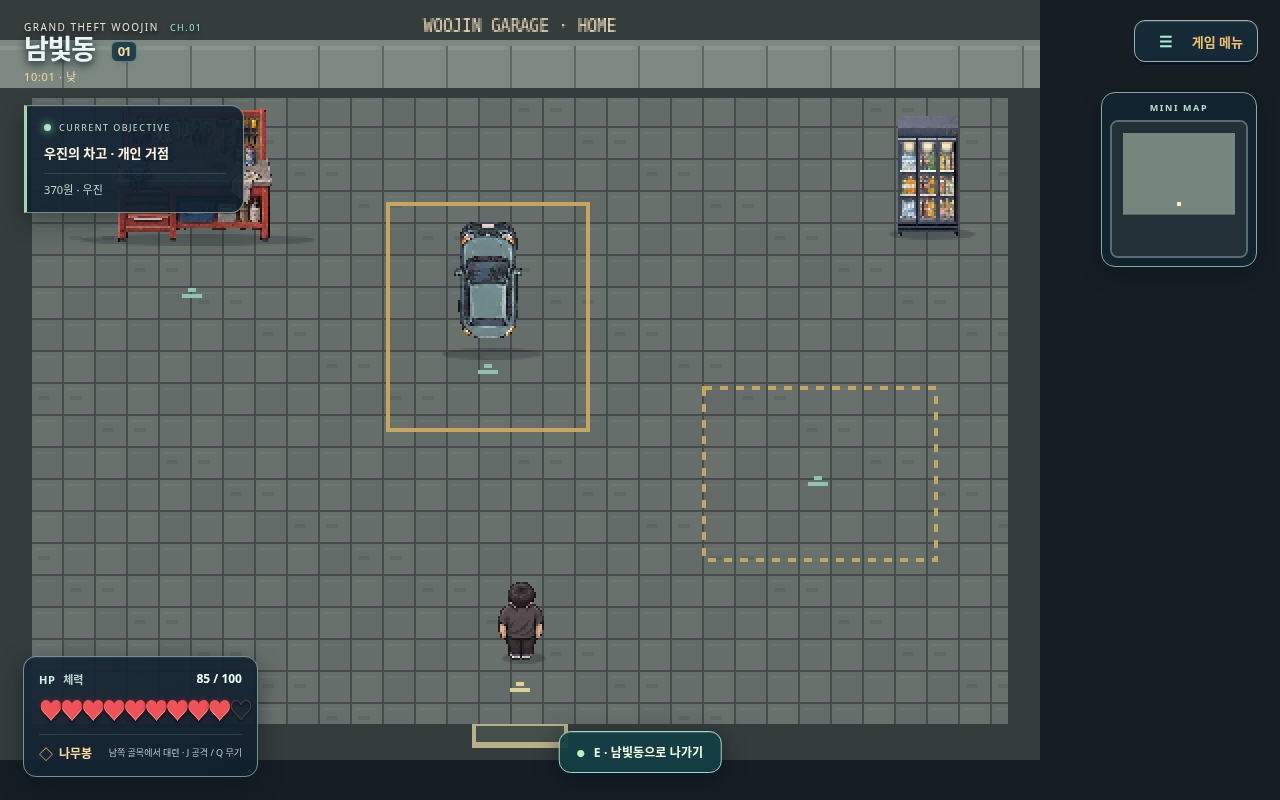
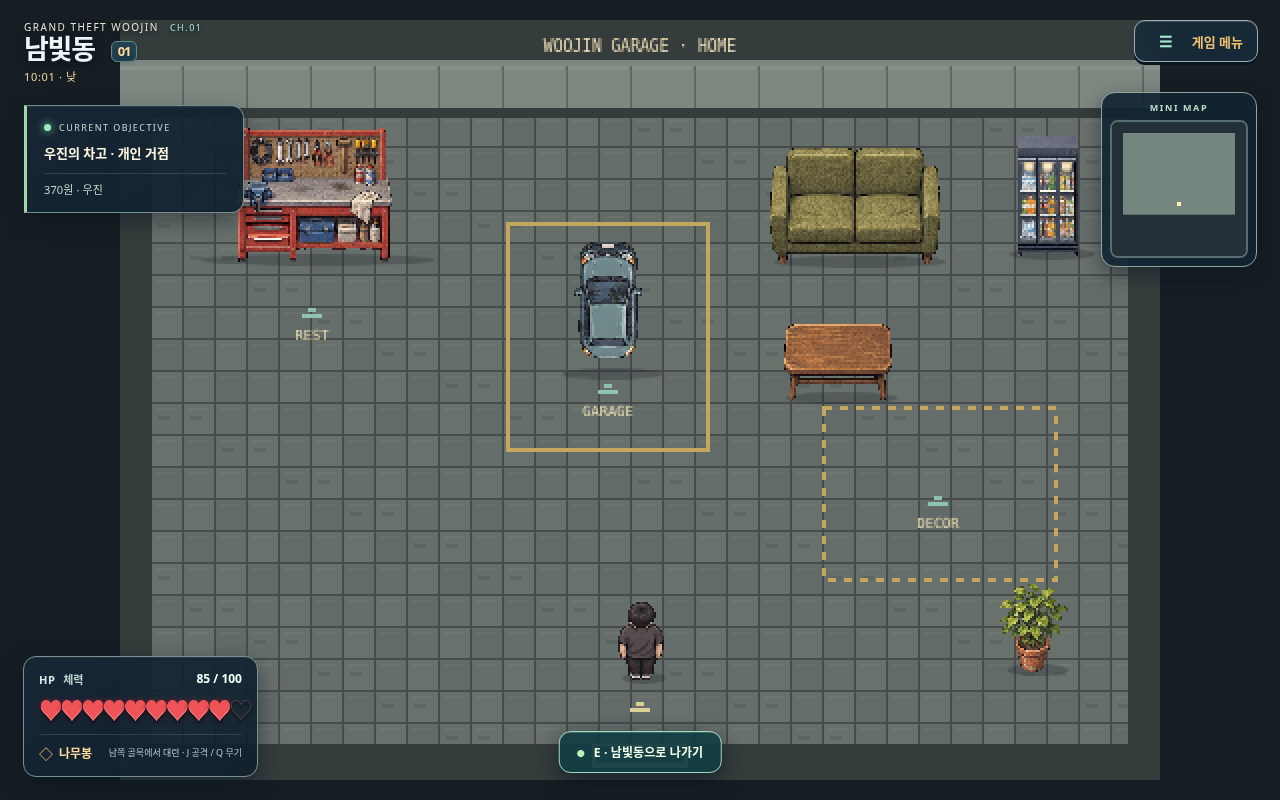
Make garage a persistent personal base with validated furniture placement

diff --git a/dist/city.js b/dist/city.js
@@ -6,6 +6,8 @@ npcs.push(...CityResidents.make());
 let activeResident=null;
 const cityTime=CityTime.create(),rooms=CityInteriors.create();
 let interiorService=false;
+const home=CityHome.create(CityInteriors.rooms.garage);rooms.setFurniture(home.items);
+const homeView=CityHomeView.create({home,rooms,p,S,onChange(){rooms.setFurniture(home.items);save()},onOpen:clearInput,onClose(){clearInput();save()}});
 const activities=CityActivities.create({reward(amount){state.money+=amount;beep()}});
 const clamp=(x,a,b)=>Math.max(a,Math.min(b,x)),distance=(a,b)=>Math.hypot(a.x-b.x,a.y-b.y);
 const enemies=[{id:'taeo',name:'태오',x:300,y:620,dir:2,walk:0,home:{x:300,y:620}}];
@@ -20,9 +22,9 @@ function changeWeapon(){if(!canAttack())return;if(!combat.clubUnlocked){combatVi
 function blocked(x,y,r=8){return rooms.current?rooms.blocked(x,y,r):worldBlocked(x,y,r)}
 function worldBlocked(x,y,r=8){return x<r||y<r||x>SIZE-r||y>SIZE-r||obstacles.some(o=>x+r>o.x&&x-r<o.x+o.w&&y+r>o.y&&y-r<o.y+o.h)}
 function move(o,dx,dy,r){const n=Math.max(1,Math.ceil(Math.hypot(dx,dy)/4));let hit=false;for(let i=0;i<n;i++){if(!blocked(o.x+dx/n,o.y,r))o.x+=dx/n;else hit=true;if(!blocked(o.x,o.y+dy/n,r))o.y+=dy/n;else hit=true}return hit}
-function serial(){return{version:1,p:rooms.current?{...rooms.outside,dir:2}:{x:p.x,y:p.y,dir:p.dir},interior:rooms.save(p),car:{...car,speed:0},mission:state.mission,money:state.money,zoom,sound:$('sound').checked,combat:combat.save(),activities:activities.save(),worldTime:cityTime.save()}}
+function serial(){return{version:1,p:rooms.current?{...rooms.outside,dir:2}:{x:p.x,y:p.y,dir:p.dir},interior:rooms.save(p),home:home.save(),car:{...car,speed:0},mission:state.mission,money:state.money,zoom,sound:$('sound').checked,combat:combat.save(),activities:activities.save(),worldTime:cityTime.save()}}
 function save(){try{const value=JSON.stringify(serial());localStorage.setItem(KEY+'-backup',localStorage.getItem(KEY)||value);localStorage.setItem(KEY,value);$('saveStatus').textContent='저장 완료'}catch{$('saveStatus').textContent='저장 공간을 사용할 수 없어. 이번 진행은 기기에서 보존되지 않을 수 있어.'}}
-function restore(){for(const key of[KEY,KEY+'-backup'])try{const s=JSON.parse(localStorage.getItem(key));if(s?.version!==1||!Number.isFinite(s.p?.x)||!Number.isFinite(s.p?.y))continue;if(!blocked(s.p.x,s.p.y)){p.x=s.p.x;p.y=s.p.y}if(s.car&&Number.isFinite(s.car.a)&&Number.isFinite(s.car.x)&&Number.isFinite(s.car.y)&&!blocked(s.car.x,s.car.y,30)){Object.assign(car,s.car);car.speed=0}state.mission=[0,1,2,3].includes(s.mission)?s.mission:0;state.money=Number.isFinite(s.money)?clamp(s.money,0,1e9):0;zoom=[1.5,2,3].includes(s.zoom)?s.zoom:2;$('zoom').value=zoom;$('sound').checked=s.sound!==false;combat.load(s.combat);activities.load(s.activities);cityTime.load(s.worldTime);rooms.load(s.interior);if(rooms.current)Object.assign(p,rooms.position);$('dayLength').value=cityTime.save().dayMinutes;return}catch{}}
+function restore(){for(const key of[KEY,KEY+'-backup'])try{const s=JSON.parse(localStorage.getItem(key));if(s?.version!==1||!Number.isFinite(s.p?.x)||!Number.isFinite(s.p?.y))continue;if(!blocked(s.p.x,s.p.y)){p.x=s.p.x;p.y=s.p.y}if(s.car&&Number.isFinite(s.car.a)&&Number.isFinite(s.car.x)&&Number.isFinite(s.car.y)&&!blocked(s.car.x,s.car.y,30)){Object.assign(car,s.car);car.speed=0}state.mission=[0,1,2,3].includes(s.mission)?s.mission:0;state.money=Number.isFinite(s.money)?clamp(s.money,0,1e9):0;zoom=[1.5,2,3].includes(s.zoom)?s.zoom:2;$('zoom').value=zoom;$('sound').checked=s.sound!==false;combat.load(s.combat);activities.load(s.activities);cityTime.load(s.worldTime);home.load(s.home);rooms.setFurniture(home.items);rooms.load(s.interior);if(rooms.current)Object.assign(p,rooms.position);$('dayLength').value=cityTime.save().dayMinutes;return}catch{}}
 function mapSize(){return rooms.current?{w:rooms.current.w,h:rooms.current.h}:{w:SIZE,h:SIZE}}
 function cameraAxis(value,size,view){return rooms.current&&size<view?(size-view)/2:clamp(value,0,Math.max(0,size-view))}
 function resize(){canvas.width=Math.max(160,Math.floor(innerWidth/zoom));canvas.height=Math.max(180,Math.floor(innerHeight/zoom));ctx.imageSmoothingEnabled=false;camera.x=cameraAxis(camera.x,mapSize().w,canvas.width);camera.y=cameraAxis(camera.y,mapSize().h,canvas.height)}
@@ -30,7 +32,7 @@ function beep(){if(!$('sound').checked)return;try{audio??=new AudioContext();aud
 function say(t){interiorService=false;activeResident=null;$('service').hidden=true;$('activityAction').hidden=true;if(!state.driving)p.gesture=.55;$('dialogText').textContent=t;$('dialog').hidden=false;clearInput();$('ok').focus?.({preventScroll:true});beep()}
 function closeDialog(){if($('dialog').hidden)return;$('dialog').hidden=true;interiorService=false;activeResident=null;hud();canvas.focus?.({preventScroll:true})}
 function interact(){if(paused||!active||rooms.busy||!$('dialog').hidden||p.fight.mode!=='idle')return;
-if(rooms.current){const target=rooms.target(p);if(!target)return;if(target.id==='exit'){if(rooms.exit(worldBlocked)){clearInput();save()}else combatView.show('출구 앞 공간이 막혀 있어.');return}if(target.id==='shop'){say('남빛24 직원: 주먹밥은 30원이야. 체력을 35 회복해.');interiorService=true;$('service').textContent='주먹밥 · 30원';$('service').hidden=false;return}if(target.id==='workbench'){combat.heal(100);say('내 차고야. 작업대에서 잠깐 쉬었어. 체력을 회복했어.');save();return}say(target.id==='decor'?'거점 가구 배치 준비 중이야.':'차량 보관 공간이야.');return}
+if(rooms.current){const target=rooms.target(p);if(!target)return;if(target.id==='exit'){if(rooms.exit(worldBlocked)){clearInput();save()}else combatView.show('출구 앞 공간이 막혀 있어.');return}if(target.id==='shop'){say('남빛24 직원: 주먹밥은 30원이야. 체력을 35 회복해.');interiorService=true;$('service').textContent='주먹밥 · 30원';$('service').hidden=false;return}if(target.id==='workbench'){combat.heal(100);say('내 차고야. 작업대에서 잠깐 쉬었어. 체력을 회복했어.');save();return}if(target.id==='decor'){homeView.open();return}say('차량 보관 공간이야.');return}
 const door=rooms.nearDoor(p);if(door&&!state.driving&&!combat.engaged){rooms.enter(door.id,p);clearInput();return}
 if(state.driving){vehicle();return}
 if(combat.engaged){combatView.show('대련 중이야. 구역 밖으로 물러나면 대련을 멈출 수 있어.');return}
@@ -44,7 +46,7 @@ const n=npcs.filter(n=>n.fight.hp>0&&distance(p,n)<52).sort((a,b)=>distance(p,a)
 function vehicle(){if(rooms.current||rooms.busy)return;if(paused||!active||!$('dialog').hidden||combat.engaged||p.fight.mode!=='idle')return;if(state.driving){if(Math.abs(car.speed)>12){say('차를 멈춘 다음 내려줘.');return}const exits=[[42,0],[-42,0],[0,44],[0,-44]].map(([x,y])=>({x:car.x+x,y:car.y+y}));const e=exits.find(e=>!blocked(e.x,e.y,9));if(!e){say('내릴 공간이 없어. 조금 이동해줘.');return}p.transition={x:car.x,y:car.y,time:.35,enter:false};p.x=e.x;p.y=e.y;state.driving=false;car.speed=0;p.emotion=.5;save()}else if(distance(p,car)<65){p.transition={x:p.x,y:p.y,time:.35,enter:true};state.driving=true;p.vx=p.vy=0;p.emotion=.5;beep()}}
 function clearInput(){Object.keys(keys).forEach(k=>keys[k]=false);joy.x=joy.y=0;combat.suspend();$('stick').firstElementChild.style.transform=''}
 function pause(value){paused=value;$('pause').hidden=!paused;clearInput();if(paused)save()}
-function tick(dt){if(!active||paused||!$('dialog').hidden)return;clock+=dt;cityTime.step(dt);saveClock+=dt;combatView.update(dt);if(rooms.busy){if(rooms.step(dt)){Object.assign(p,rooms.position);p.vx=p.vy=0;camera.x=cameraAxis(p.x-canvas.width/2,mapSize().w,canvas.width);camera.y=cameraAxis(p.y-canvas.height/2,mapSize().h,canvas.height);clearInput();save()}hud();return;}if(keys.attack)attack();if(p.transition)p.transition.time=Math.max(0,p.transition.time-dt);let x=(keys.d||keys.ArrowRight?1:0)-(keys.a||keys.ArrowLeft?1:0)+joy.x,y=(keys.s||keys.ArrowDown?1:0)-(keys.w||keys.ArrowUp?1:0)+joy.y;const mag=Math.hypot(x,y);if(mag>1){x/=mag;y/=mag}
+function tick(dt){if(!active||paused||homeView.opened||!$('dialog').hidden)return;clock+=dt;cityTime.step(dt);saveClock+=dt;combatView.update(dt);if(rooms.busy){if(rooms.step(dt)){Object.assign(p,rooms.position);p.vx=p.vy=0;camera.x=cameraAxis(p.x-canvas.width/2,mapSize().w,canvas.width);camera.y=cameraAxis(p.y-canvas.height/2,mapSize().h,canvas.height);clearInput();save()}hud();return;}if(keys.attack)attack();if(p.transition)p.transition.time=Math.max(0,p.transition.time-dt);let x=(keys.d||keys.ArrowRight?1:0)-(keys.a||keys.ArrowLeft?1:0)+joy.x,y=(keys.s||keys.ArrowDown?1:0)-(keys.w||keys.ArrowUp?1:0)+joy.y;const mag=Math.hypot(x,y);if(mag>1){x/=mag;y/=mag}
  if(state.driving){const throttle=keys.brake?-1:keys.attack?1:-y;car.speed+=throttle*110*dt;car.speed*=Math.exp(-(throttle?.65:2.8)*dt);car.speed=clamp(car.speed,-50,155);car.a+=x*(Math.max(0.24,Math.abs(car.speed)/115))*1.65*dt*(car.speed<0?-1:1);const dx=Math.sin(car.a)*car.speed*dt,dy=-Math.cos(car.a)*car.speed*dt;if(move(car,dx,dy,30)){car.speed*=-.12;p.emotion=.7}p.x=car.x;p.y=car.y}else{const speed=sprintEnabled?94:57,blend=1-Math.exp(-13*dt);p.vx+=(x*speed-p.vx)*blend;p.vy+=(y*speed-p.vy)*blend;const oldX=p.x,oldY=p.y;move(p,p.vx*dt*combat.movementScale(),p.vy*dt*combat.movementScale(),8);const moved=Math.hypot(p.x-oldX,p.y-oldY);p.moving=moved>.02;if(mag>.1&&!p.fight.attack&&p.fight.mode==='idle'){p.dir=Math.abs(x)>Math.abs(y)?x>0?1:3:y>0?2:0;p.walk+=moved*.12}}
  if(!rooms.current)combat.step(dt);
  activities.step(dt);if(!rooms.current)for(const n of npcs)if(n.brain==='idle'&&n.fight.mode==='idle'&&!cityTime.resting(n.kind))CityResidents.step(n,dt,{player:p,combat,move});
@@ -84,11 +86,12 @@ const streetProps=[
 obstacles.push({x:308,y:363,w:36,h:6},{x:325,y:332,w:12,h:10},{x:660,y:542,w:12,h:10},...[ [370,350],[620,530],[80,650],[1100,400] ].map(([x,y])=>({x,y:y-2,w:5,h:6})));
 function drawPerson(n,hero=false){if(hero&&combatView.playerPose(ctx))return;const trans=hero&&p.transition?.time>0?p.transition:null;let x=n.x,y=n.y;if(trans){const a=1-trans.time/.35;x=trans.x+(n.x-trans.x)*a;y=trans.y+(n.y-trans.y)*a;ctx.globalAlpha=trans.enter?1-a:1;}if(n.civilian&&n.fight.mode==='down')ctx.globalAlpha=.32;else if(n.civilian&&n.fight.mode==='hurt')ctx.globalAlpha=.7;S.shadow(ctx,x,y,hero?11:9);const pose=trans?S.action(n.dir,trans.enter?2:3):hero&&p.gesture>0?S.action(n.dir,p.gesture>.28?0:1):hero&&p.emotion>0?S.action(n.dir,4):S.person(n.dir,n.walk,n.moving,hero&&sprintEnabled,hero?'woojin':n.role);ctx.drawImage(pose,Math.round(x)-20,Math.round(y)-44);ctx.globalAlpha=1;if(hero&&p.emotion>0){R(ctx,x-1,y-52,2,5,'#ffe4a1');R(ctx,x-1,y-45,2,1,'#ffe4a1')}}
 function transitionOverlay(){if(!rooms.busy)return;ctx.fillStyle='rgba(10,17,23,'+rooms.fade+')';ctx.fillRect(0,0,canvas.width,canvas.height)}
-function drawInterior(){CityInteriors.draw(ctx,rooms.current,{p,camera,canvas,S,drawPerson});const m=$('map').getContext('2d'),room=rooms.current;m.fillStyle='#233037';m.fillRect(0,0,144,144);const scale=120/Math.max(room.w,room.h);R(m,12,12,room.w*scale,room.h*scale,'#75867e');R(m,12+p.x*scale-2,12+p.y*scale-2,4,4,'#fff0b2');transitionOverlay()}
+function drawInterior(){CityInteriors.draw(ctx,rooms.current,{p,camera,canvas,S,drawPerson,furniture:home.items});const m=$('map').getContext('2d'),room=rooms.current;m.fillStyle='#233037';m.fillRect(0,0,144,144);const scale=120/Math.max(room.w,room.h);R(m,12,12,room.w*scale,room.h*scale,'#75867e');R(m,12+p.x*scale-2,12+p.y*scale-2,4,4,'#fff0b2');transitionOverlay()}
 function draw(){if(rooms.current){drawInterior();return}ctx.clearRect(0,0,canvas.width,canvas.height);ctx.save();ctx.translate(-Math.round(camera.x)+(combatView.impact>0?Math.round(Math.sin(clock*90)):0),-Math.round(camera.y));ctx.drawImage(ground,0,0);combatView.ground(ctx);const activityTarget=activities.target();if(activityTarget){ctx.strokeStyle='#8fcabb';ctx.lineWidth=2;ctx.setLineDash([4,3]);ctx.beginPath();ctx.arc(activityTarget.x,activityTarget.y,15,0,Math.PI*2);ctx.stroke();ctx.setLineDash([]);ctx.fillStyle='#d1f2df';ctx.font='8px monospace';ctx.textAlign='center';ctx.fillText(activities.active.index<CityActivities.jobs[activities.active.id].points.length?'E · 확인':'NPC에게 보고',activityTarget.x,activityTarget.y-23);}for(const b of buildings){ctx.fillStyle='#20233338';ctx.beginPath();ctx.moveTo(b.x+3,b.y+b.h+8);ctx.lineTo(b.x+b.w,b.y+b.h+8);ctx.lineTo(b.x+b.w+14,b.y+b.h+20);ctx.lineTo(b.x+17,b.y+b.h+20);ctx.fill()}const render=streetProps.map(o=>({y:o.foot,draw(){ctx.fillStyle='#20273530';ctx.beginPath();ctx.ellipse(o.x+o.w/2+5,o.foot-1,o.w/2,3,0,0,Math.PI*2);ctx.fill();ctx.drawImage(S.images[o.name],o.x,o.y,o.w,o.h)}}));buildings.forEach(b=>render.push({y:b.y+b.h,draw(){const behind=p.x>b.x-10&&p.x<b.x+b.w+10&&p.y>b.y-30&&p.y<b.y+20;ctx.globalAlpha=behind?.42:1;ctx.drawImage(b.art,b.x,b.y);ctx.globalAlpha=1}}));trees.forEach((t,i)=>render.push({y:t.y+52,draw(){ctx.globalAlpha=Math.abs(p.x-(t.x+24))<27&&p.y>t.y-33&&p.y<t.y+45?.4:1;S.shadow(ctx,t.x+24,t.y+52,28);const im=S.images[i%2?'tree-b':'tree-a'];ctx.drawImage(im,Math.round(t.x+24-im.width/2),t.y+52-im.height);ctx.globalAlpha=1}}));npcs.forEach(n=>render.push({y:n.y,draw(){drawPerson(n);if(n.kind&&distance(p,n)<70){ctx.font='7px monospace';ctx.textAlign='center';ctx.fillStyle='#f5dfab';ctx.fillText(n.name,Math.round(n.x),Math.round(n.y)-48)}if(n===npcs[0]&&state.mission!==3){R(ctx,n.x-2,n.y-57,3,7,'#f0cc7d');R(ctx,n.x-2,n.y-48,3,2,'#f0cc7d')}}}));render.push({y:car.y+20,draw(){ctx.save();ctx.translate(Math.round(car.x),Math.round(car.y));ctx.rotate(car.a);ctx.fillStyle='#1b243445';ctx.fillRect(-15,-25,34,58);ctx.drawImage(S.images.sedan,-17,-29);ctx.restore()}});enemies.forEach(e=>render.push({y:e.y,draw(){combatView.enemy(ctx,e)}}));if(!state.driving||p.transition?.time>0)render.push({y:p.y+1,draw(){drawPerson(p,true)}});if(state.mission===1)render.push({y:601,draw(){S.shadow(ctx,861,601,8);R(ctx,854,590,14,11,'#b98d53');R(ctx,855,591,12,8,'#d8b577');R(ctx,857,587,8,4,'#624d3e');R(ctx,859,589,4,2,'#b7a582');R(ctx,860,593,2,6,'#735a43');R(ctx,860,594,2,2,'#e4d4a2')}});render.sort((a,b)=>a.y-b.y).forEach(o=>o.draw());combatView.overlay(ctx);CityTime.draw(ctx,cityTime,{camera,width:canvas.width,height:canvas.height,lamps:streetProps.filter(o=>o.name==='lamp').map(o=>({x:o.x+2,y:o.foot-4})),buildings});ctx.restore();const m=$('map').getContext('2d'),s=144/SIZE;m.fillStyle='#8a9885';m.fillRect(0,0,144,144);R(m,390*s,0,210*s,144,'#35484e');R(m,0,395*s,144,100*s,'#35484e');buildings.forEach(b=>R(m,b.x*s,b.y*s,b.w*s,b.h*s,'#c0b395'));R(m,p.x*s-2,p.y*s-2,4,4,'#fff6ca');const at=activities.target();if(at)R(m,at.x*s-3,at.y*s-3,6,6,'#8fcabb');const goal=state.mission===1?{x:860,y:600}:npcs[0];if(state.mission!==3)R(m,goal.x*s-2,goal.y*s-2,4,4,'#e19b64');transitionOverlay()}
 function frame(now){const elapsed=last?Math.min(.1,(now-last)/1000):0;last=now;if(active&&!paused&&!document.hidden){p.gesture=Math.max(0,(p.gesture||0)-elapsed);p.emotion=Math.max(0,p.emotion-elapsed);acc+=elapsed;while(acc>=1/60){tick(1/60);acc-=1/60}draw()}else acc=0;requestAnimationFrame(frame)}
 addEventListener('keydown',e=>{
  const k=e.key.length===1?e.key.toLowerCase():e.key;
+ if(homeView.opened){if(k==='Escape'){e.preventDefault();homeView.close()}return;}
  if(!$('dialog').hidden){
   if(['service','activityAction'].includes(e.target.id)&&['Enter',' '].includes(k))return;
   if(['e','Enter',' ','Escape'].includes(k)){e.preventDefault();if(!e.repeat)closeDialog();}
@@ -123,5 +126,5 @@ $('stick').onpointerdown=e=>{e.preventDefault();if(stickPointer!==null)return;st
 let attackPointer=null;
 $('attack').onpointerdown=e=>{e.preventDefault();if(attackPointer!==null)return;attackPointer=e.pointerId;keys.attack=true;attack();try{$('attack').setPointerCapture(e.pointerId)}catch{}};
 for(const ev of ['pointerup','pointercancel','lostpointercapture'])$('attack').addEventListener(ev,e=>{if(e.pointerId===attackPointer){attackPointer=null;keys.attack=false}});
-restore();resize();camera.x=clamp(p.x-canvas.width/2,0,Math.max(0,SIZE-canvas.width));camera.y=clamp(p.y-canvas.height/2,0,Math.max(0,SIZE-canvas.height));hud();draw();requestAnimationFrame(frame);if(['localhost','127.0.0.1'].includes(location.hostname))window.cityTest={p,car,state,npcs,keys,joy,camera,blocked,move,tick,interact,vehicle,save,restore,draw,art:S,ground,combat,enemies,attack,changeWeapon,activities,cityTime,rooms,pause,get active(){return active},get sprintEnabled(){return sprintEnabled},get zoom(){return zoom}};
+restore();resize();camera.x=cameraAxis(p.x-canvas.width/2,mapSize().w,canvas.width);camera.y=cameraAxis(p.y-canvas.height/2,mapSize().h,canvas.height);hud();draw();requestAnimationFrame(frame);if(['localhost','127.0.0.1'].includes(location.hostname))window.cityTest={p,car,state,npcs,keys,joy,camera,blocked,move,tick,interact,vehicle,save,restore,draw,art:S,ground,combat,enemies,attack,changeWeapon,activities,cityTime,rooms,home,homeView,pause,get active(){return active},get sprintEnabled(){return sprintEnabled},get zoom(){return zoom}};
 })();

diff --git a/dist/city-home.js b/dist/city-home.js
@@ -1,0 +1,22 @@
+'use strict';
+(function(root,factory){const api=factory();if(typeof module==='object'&&module.exports)module.exports=api;else root.CityHome=api;})(globalThis,()=>{
+ const catalog={sofa:{name:'올리브 소파',art:'sofa',w:96,h:58},table:{name:'원목 테이블',art:'table',w:62,h:38},plant:{name:'초록 화분',art:'plant',w:34,h:54}};
+ const defaults=[{kind:'sofa',x:320,y:64},{kind:'table',x:328,y:152},{kind:'plant',x:440,y:272}];
+ const overlap=(a,b,pad=0)=>a.x<b.x+b.w+pad&&a.x+a.w+pad>b.x&&a.y<b.y+b.h+pad&&a.y+a.h+pad>b.y;
+ function create(room){let items=[];const item=q=>({...catalog[q.kind],kind:q.kind,x:q.x,y:q.y});
+  function valid(list,player=room.spawn){const fail=text=>({ok:false,text});for(let i=0;i<list.length;i++){const o=list[i];if(!catalog[o.kind]||!Number.isFinite(o.x+o.y)||o.x<24||o.y<56||o.x+o.w>room.w-24||o.y+o.h>room.h-26)return fail('벽 안쪽 바닥에 배치해줘.');if(overlap(o,{x:216,y:302,w:88,h:60},4)||overlap(o,{x:188,y:96,w:116,h:130},4))return fail('출입구와 차량 공간은 비워둬야 해.');if(room.objects.some(q=>overlap(o,q,6))||list.slice(0,i).some(q=>overlap(o,q,6)))return fail('다른 가구와 겹치지 않게 배치해줘.');if(overlap(o,{x:player.x-10,y:player.y-10,w:20,h:20}))return fail('우진이 서 있는 공간은 비워줘.');for(const q of room.points)if(overlap(o,{x:q.x-16,y:q.y-16,w:32,h:32}))return fail('상호작용 공간은 비워줘.');}
+   // Flood-fill walkable foot positions. All service points must remain reachable
+   // from the entrance; reserving just the doorway rectangle is insufficient.
+   const objects=room.objects.concat(list),solid=(x,y)=>x<24||y<56||x>room.w-24||y>room.h-26||objects.some(o=>overlap({x:x-8,y:y-8,w:16,h:16},{x:o.x,y:o.y+o.h*.4,w:o.w,h:o.h*.6}));
+   const start=[264,328],queue=[start],seen=new Set([start.join(',')]);for(let i=0;i<queue.length;i++){const [x,y]=queue[i];for(const [dx,dy]of[[16,0],[-16,0],[0,16],[0,-16]]){const a=x+dx,b=y+dy,key=a+','+b;if(!seen.has(key)&&!solid(a,b)){seen.add(key);queue.push([a,b])}}}
+   for(const q of room.points.concat([room.exit,player]))if(!queue.some(([x,y])=>Math.hypot(x-q.x,y-q.y)<26))return fail('출구나 작업대까지 걸어갈 길이 막혀.');return{ok:true,text:'배치를 저장했어.'};
+  }
+  const api={get items(){return items},valid,
+   place(kind,x,y,player){if(!catalog[kind])return{ok:false,text:'없는 가구야.'};const proposed=items.filter(o=>o.kind!==kind).concat(item({kind,x:Math.round(x/8)*8,y:Math.round(y/8)*8})),result=valid(proposed,player);if(result.ok)items=proposed;return result},
+   remove(kind){items=items.filter(o=>o.kind!==kind);return{ok:true,text:'가구를 보관했어. 다시 선택해서 배치할 수 있어.'}},
+   save(){return{items:items.map(({kind,x,y})=>({kind,x,y}))}},
+   load(s){items=[];const source=Array.isArray(s?.items)?s.items:defaults;for(const q of source.slice(0,12)){if(!catalog[q?.kind]||items.some(o=>o.kind===q.kind))continue;const proposed=items.concat(item(q));if(valid(proposed).ok)items=proposed}}
+  };api.load();return api;
+ }
+ return{catalog,create};
+});

diff --git a/dist/city.html b/dist/city.html
@@ -6,7 +6,7 @@
   <meta name="theme-color" content="#101924">
   <title>Grand Theft Woojin · WoojinHub</title>
   <link rel="stylesheet" href="city.css">
-  <link rel="stylesheet" href="arcade-ui.css">
+  <link rel="stylesheet" href="arcade-ui.css"><link rel="stylesheet" href="city-world.css">
 </head>
 <body class="game-city">
   <div id="artLoading" role="status">남빛동으로 가는 중…</div>
@@ -45,6 +45,13 @@
       <p id="saveStatus">자동 저장 사용 중</p>
     </article>
   </div>
+  <section id="homeEditor" role="dialog" aria-modal="true" aria-labelledby="homeHeading" hidden>
+    <article><small>WOOJIN GARAGE · PERSONAL SPACE</small><h2 id="homeHeading">나의 작은 거점</h2>
+    <div class="decor-catalog"><button id="decor-sofa" type="button">소파</button><button id="decor-table" type="button">테이블</button><button id="decor-plant" type="button">화분</button></div>
+    <canvas id="homePlan" width="312" height="228" aria-label="가구 배치 평면도. 아래 방향 버튼으로도 이동할 수 있어."></canvas>
+    <div class="decor-adjust"><button id="decor-left" type="button" aria-label="가구 왼쪽으로">←</button><button id="decor-up" type="button" aria-label="가구 위로">↑</button><button id="decor-down" type="button" aria-label="가구 아래로">↓</button><button id="decor-right" type="button" aria-label="가구 오른쪽으로">→</button><button id="decor-remove" type="button">보관</button></div>
+    <p id="homeStatus" role="status"></p><button id="homeClose" type="button">배치 완료 · 돌아가기</button></article>
+  </section>
   <div id="touch" aria-label="터치 조작">
     <div class="movement"><div id="stick" role="group" aria-label="이동 조이스틱"><i></i></div><span class="movement-label">MOVE · 이동</span></div>
     <div class="actions">
@@ -56,6 +63,6 @@
   </div>
   <script src="city-art.js"></script><script src="city-scene.js"></script><script src="city-sprites.js"></script>
   <script src="city-ground.js"></script><script src="city-combat.js"></script><script src="city-combat-view.js"></script>
-  <script src="city-interiors.js"></script><script src="city-time.js"></script><script src="city-residents.js"></script><script src="city-activities.js"></script><script src="city.js"></script><script src="child-nav.js"></script>
+  <script src="city-home.js"></script><script src="city-home-view.js"></script><script src="city-interiors.js"></script><script src="city-time.js"></script><script src="city-residents.js"></script><script src="city-activities.js"></script><script src="city.js"></script><script src="child-nav.js"></script>
 </body>
 </html>

diff --git a/dist/city-home-view.js b/dist/city-home-view.js
@@ -1,0 +1,13 @@
+'use strict';
+window.CityHomeView={create({home,rooms,p,S,onChange,onOpen,onClose}){
+ const $=id=>document.getElementById(id),panel=$('homeEditor'),plan=$('homePlan');let selected='sofa';
+ const status=text=>$('homeStatus').textContent=text;
+ function render(){const room=CityInteriors.rooms.garage,c=plan.getContext('2d'),scale=plan.width/room.w;c.imageSmoothingEnabled=false;c.fillStyle='#273b3d';c.fillRect(0,0,plan.width,plan.height);c.save();c.scale(scale,scale);c.fillStyle='#758079';c.fillRect(16,48,room.w-32,room.h-66);for(const o of room.objects.concat(home.items)){if(S.images[o.art])c.drawImage(S.images[o.art],o.x,o.y,o.w,o.h);if(o.kind===selected){c.strokeStyle='#f3d489';c.lineWidth=3;c.strokeRect(o.x-3,o.y-3,o.w+6,o.h+6)}}c.strokeStyle='#e8cd80';c.lineWidth=2;c.strokeRect(188,96,116,130);c.fillStyle='#b2d2b3';c.fillRect(216,room.h-26,88,8);c.fillStyle='#fff0b8';c.beginPath();c.arc(p.x,p.y,5,0,Math.PI*2);c.fill();c.restore();for(const kind of Object.keys(CityHome.catalog))$('decor-'+kind).setAttribute?.('aria-pressed',String(kind===selected))}
+ function apply(result){status(result.text);if(result.ok){onChange();render()}}
+ for(const kind of Object.keys(CityHome.catalog))$('decor-'+kind).onclick=()=>{selected=kind;status(CityHome.catalog[kind].name+' · 평면도를 눌러 배치하거나 화살표로 옮겨봐.');render()};
+ plan.onclick=e=>{const r=plan.getBoundingClientRect(),def=CityHome.catalog[selected];apply(home.place(selected,(e.clientX-r.left)/r.width*520-def.w/2,(e.clientY-r.top)/r.height*380-def.h/2,p))};
+ for(const [id,dx,dy]of[['left',-8,0],['right',8,0],['up',0,-8],['down',0,8]])$('decor-'+id).onclick=()=>{const o=home.items.find(o=>o.kind===selected);if(!o){status('먼저 평면도를 눌러 가구를 꺼내줘.');return}apply(home.place(selected,o.x+dx,o.y+dy,p))};
+ $('decor-remove').onclick=()=>apply(home.remove(selected));
+ const api={get opened(){return !panel.hidden},open(){if(rooms.current?.id!=='garage')return;panel.hidden=false;onOpen();render();status('가구 선택 → 평면도 터치 · 화살표로 미세 조정 · 출입구와 길은 비워줘.');$('homeClose').focus?.({preventScroll:true})},close(){panel.hidden=true;onClose()}};
+ $('homeClose').onclick=api.close;return api;
+}};

diff --git a/dist/city-world.css b/dist/city-world.css
@@ -1,0 +1,12 @@
+.game-city #attack:disabled{filter:saturate(.15);opacity:.65;cursor:default}
+#homeEditor{position:absolute;inset:0;z-index:8;background:#101c26bd;display:grid;place-items:center;padding:12px}
+#homeEditor[hidden]{display:none}
+#homeEditor article{padding:18px;width:min(370px,96vw);max-height:calc(100dvh - 24px);overflow:auto;border-color:#b8c3ad;background:#1d3036;box-shadow:0 8px 0 #101d26}
+#homeEditor h2{font-size:19px;margin:8px 0 14px}
+#homeEditor button{margin:0;padding:9px 5px;min-height:42px;font-size:12px}
+#homeEditor .decor-catalog,#homeEditor .decor-adjust{display:flex;gap:5px;margin:8px 0}
+#homeEditor button[aria-pressed=true]{background:#69765b;border-color:#e6ca8b}
+#homeEditor #homePlan{width:100%;display:block;image-rendering:pixelated;touch-action:manipulation;border:1px solid #829389;cursor:crosshair}
+#homeStatus{min-height:42px;font-size:11px!important;line-height:1.7!important;margin:10px 0!important;color:#e8d7a6!important}
+#homeEditor #homeClose{width:100%;background:#3d6258}
+@media(max-height:510px){#homeEditor article{width:460px;display:grid;grid-template-columns:1fr 1fr;column-gap:12px}#homeEditor small,#homeHeading{grid-column:span 2}#homeEditor #homePlan{grid-column:1;grid-row:3/span 4}.decor-catalog,.decor-adjust,#homeStatus,#homeClose{grid-column:2}#homeEditor h2{margin:4px 0}#homeEditor .decor-adjust{flex-wrap:wrap}}

diff --git a/dist/city-interiors.js b/dist/city-interiors.js
@@ -36,7 +36,7 @@
  if(room.npc)items.push({y:room.npc.y,draw(){drawPerson({...room.npc,walk:0,moving:false})}});
  if(room.id==='garage'){const im=S.images[fleetArt];if(im)items.push({y:190,draw(){S.shadow(ctx,244,178,25);ctx.drawImage(im,244-im.width/2,140-im.height/2)}})}
  items.push({y:p.y,draw(){drawPerson(p,true)}});items.sort((a,b)=>a.y-b.y).forEach(o=>o.draw());
- const marker=(x,y,color)=>{ctx.fillStyle=color;ctx.fillRect(x-5,y-2,10,2);ctx.fillRect(x-2,y-5,4,2)};marker(room.exit.x,room.exit.y,'#dbd098');for(const o of room.points)marker(o.x,o.y,'#8ec4af');
+ const marker=(x,y,color)=>{ctx.fillStyle=color;ctx.fillRect(x-5,y-2,10,2);ctx.fillRect(x-2,y-5,4,2)};marker(room.exit.x,room.exit.y,'#dbd098');for(const o of room.points){marker(o.x,o.y,'#8ec4af');ctx.font='7px monospace';ctx.textAlign='center';ctx.fillStyle='#e6d9ad';ctx.fillText(({shop:'COUNTER',workbench:'REST',decor:'DECOR',fleet:'GARAGE'})[o.id],o.x,o.y+11)}
  ctx.font='8px monospace';ctx.textAlign='center';ctx.fillStyle='#eeddb6';ctx.fillText(room.id==='store'?'NAMBIT 24 · OPEN 24 HOURS':'WOOJIN GARAGE · HOME',room.w/2,16);ctx.restore();
  }
  return{rooms,create,draw};

diff --git a/docs/GTW-WORLD-HANDOFF.md b/docs/GTW-WORLD-HANDOFF.md
@@ -59,3 +59,15 @@ GTW browser suites;8765 for other games. Never force push/reset user changes.
   desktop and garage390x844 captures opened. Room floor/lighting remain simpler than
   outdoor store art; no claim of commercial graphics completeness. No deployment.
 - Next D: home selection/placement with connectivity and entrance validation.
+
+## D. Personal base checkpoint
+- Garage reuses interiors,three catalog furniture types (sofa/table/plant),plan touch
+  placement,8px directional adjustment,store/remove; selected kind and errors visible.
+- Pure CityHome validates full visual bounds/overlap,player clearance,door/vehicle pad,
+  service targets,plus16px-grid flood-fill to all room targets/exit. Optional home field,
+  safe default furniture for old saves, invalid entries ignored individually.
+- PASS city-home-unit (including many placement proposals),home-browser on desktop and
+ 390x844 with actual editor button clicks/save/reload,interiors-browser,city-runtime.
+  Captures opened; crisp small sprites but indoor floor and lighting deliberately simple.
+- Editor pauses simulation, clears movement on open/close; garage NPCs not duplicated.
+  No vehicle collection selection yet; next E shared fleet and garage selection UI.
